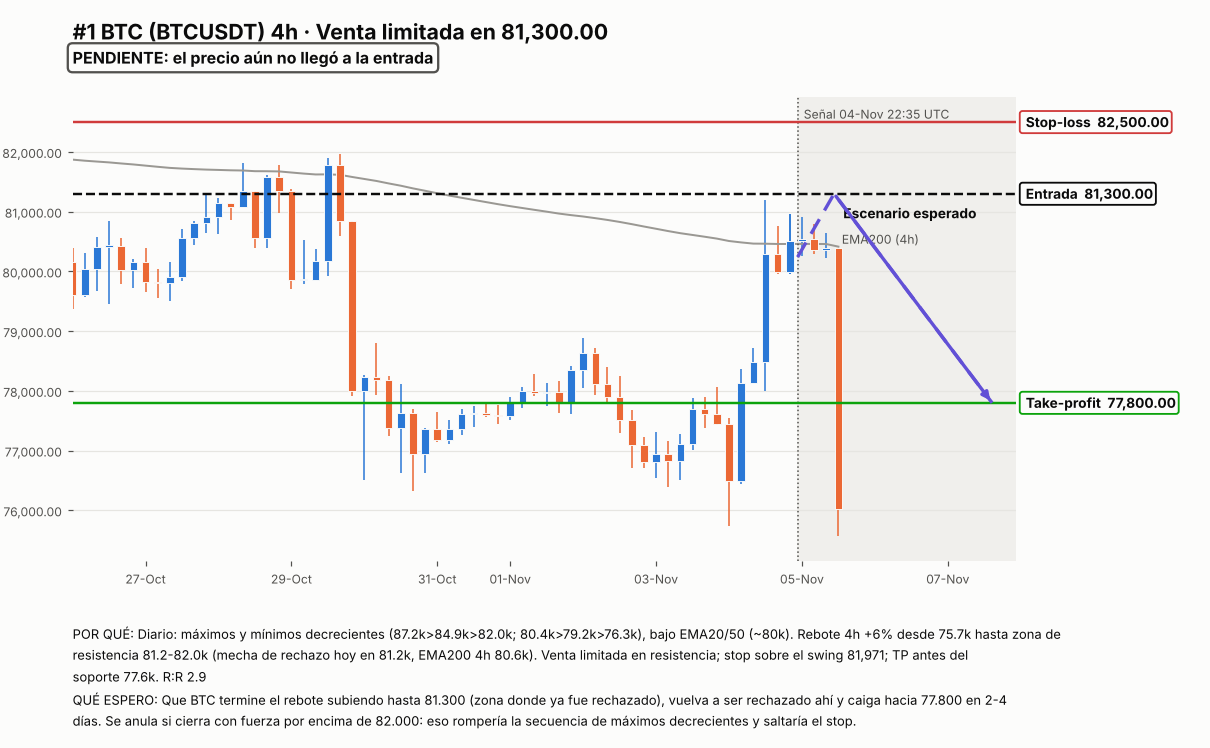
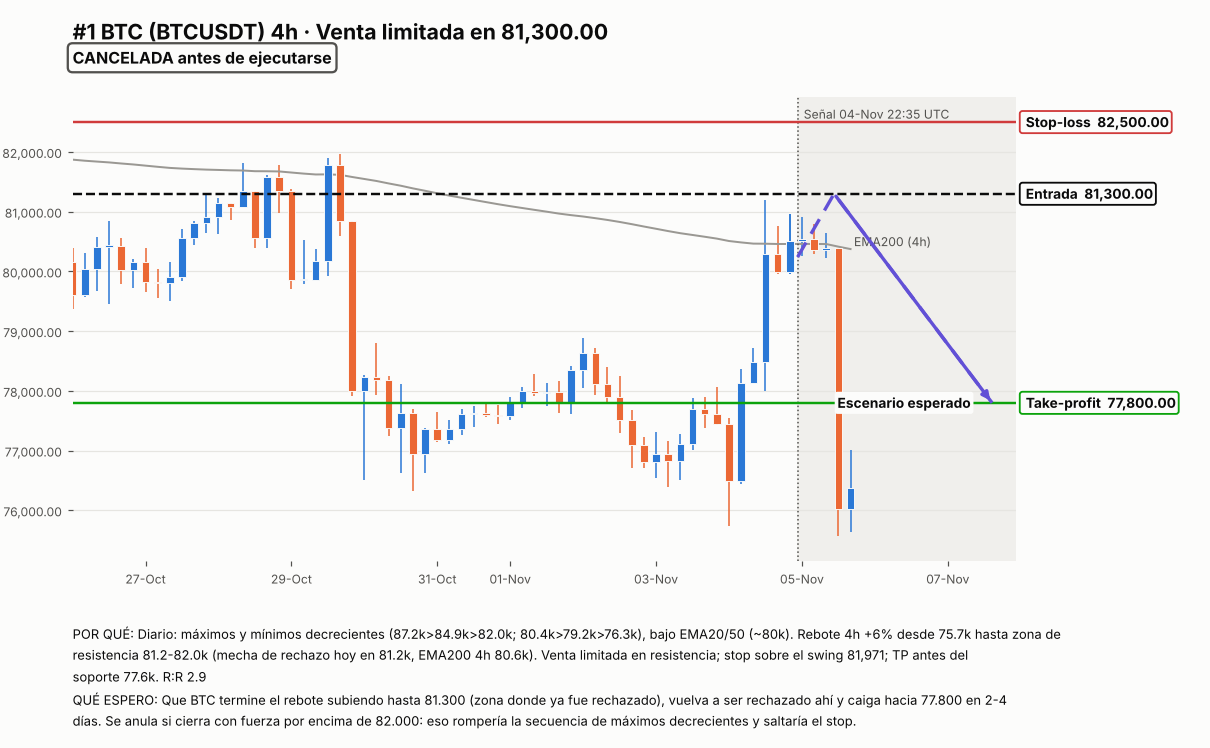
Señales paper: análisis 2026-11-05 21:15 UTC, cancela venta BTC #1, vigilancia
- BTC #1 cancelada: el precio cayó 5k bajo la entrada; ya no es ejecutable
- Vigilancia de BTC, oro y euro con planes condicionales
- Gráficos: nombre con hora y etiqueta del escenario legible

Claude-Session: https://claude.ai/code/session_0112KUKqm1jJteJG2bRjWDeX

Changed region(s): [[0.0612, 0.0307, 0.3669, 0.123], [0.7033, 0.2767, 0.8256, 0.3382], [0.6727, 0.5227, 0.795, 0.5535]]

diff --git a/trading_bot/paper_signals/charts.py b/trading_bot/paper_signals/charts.py
@@ -102,8 +102,10 @@ def render(*, asset: str, symbol: str, title: str, created: pd.Timestamp, tf: st
     ax.plot(px, py, color=PATH, linewidth=2.2, linestyle=(0, (5, 3)), zorder=5)
     ax.annotate("", xy=(px[-1], py[-1]), xytext=(px[-2], py[-2]),
                 arrowprops=dict(arrowstyle="-|>", color=PATH, lw=2.2), zorder=5)
-    ax.annotate("Escenario esperado", xy=(px[-2], py[-2]), xytext=(6, -16),
-                textcoords="offset points", fontsize=9, color=INK, fontweight="bold")
+    ax.annotate("Escenario esperado", xy=(px[-1], py[-1]), xytext=(-14, 0),
+                textcoords="offset points", fontsize=9, color=INK, fontweight="bold",
+                ha="right", va="center",
+                bbox=dict(boxstyle="round,pad=0.2", fc=SURFACE, ec="none"), zorder=7)
     ax.axvline(created, color=INK_2, linewidth=1, linestyle=":")
     ax.annotate(f"Señal {created:%d-%b %H:%M} UTC", xy=(created, 1), xycoords=("data", "axes fraction"),
                 xytext=(4, -14), textcoords="offset points", fontsize=8, color=INK_2)
@@ -193,7 +195,7 @@ def chart_watch() -> list[Path]:
             asset=w["asset"], symbol=w["symbol"], created=created,
             title=f"{w['asset']} ({w['symbol']}) 4h · Sin señal hoy, en vigilancia",
             levels=levels, path=path, why=w["why"], expect=w["expect"],
-            status="vigilancia", detail="", out=OUT / f"vigilancia_{w['asset']}_{created:%Y%m%d}.png"))
+            status="vigilancia", detail="", out=OUT / f"vigilancia_{w['asset']}_{created:%Y%m%d_%H%M}.png"))
     return outs
 
 

diff --git a/trading_bot/paper_signals/REPORTE.md b/trading_bot/paper_signals/REPORTE.md
@@ -1,6 +1,6 @@
 # Experimento de señales en paper — reporte
 
-Generado: 2026-11-05 16:21 UTC · capital simulado 100 USD · riesgo 1.0% por operación · sin apalancamiento
+Generado: 2026-11-05 21:14 UTC · capital simulado 100 USD · riesgo 1.0% por operación · sin apalancamiento
 
 |   id | creada           | activo   | dir   | tipo   |   entrada |   stop |    tp | estado    | ejecutada   | salida   | parcial   |   prob |   pnl_usd |     R |   costo_spread |
 |-----:|:-----------------|:---------|:------|:-------|----------:|-------:|------:|:----------|:------------|:---------|:----------|-------:|----------:|------:|---------------:|
